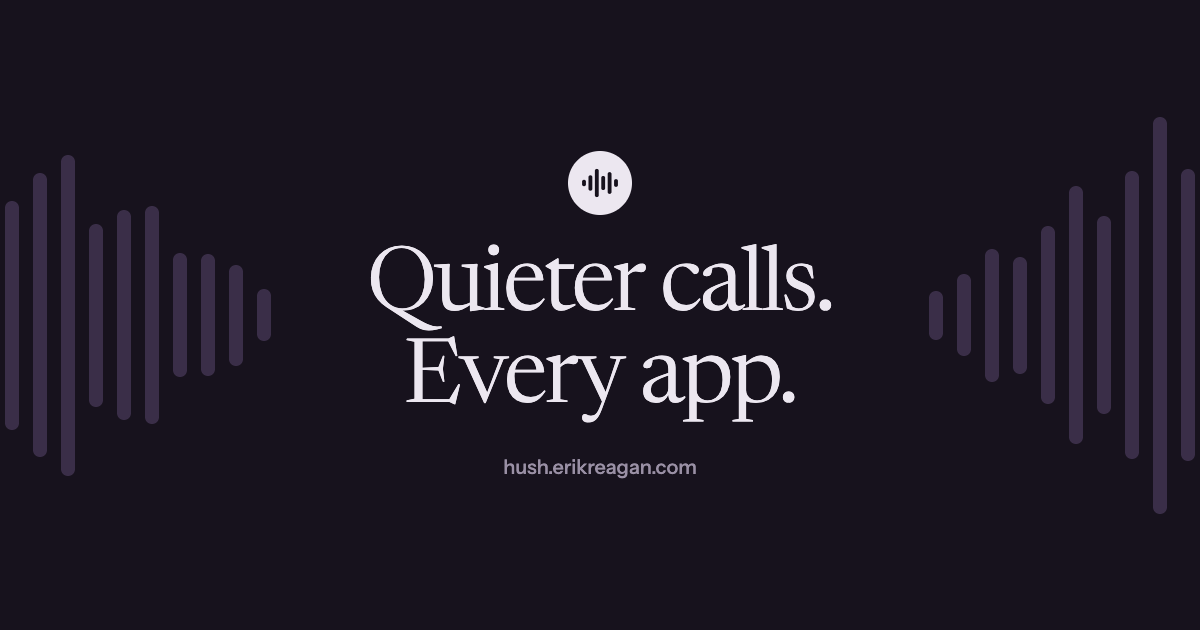
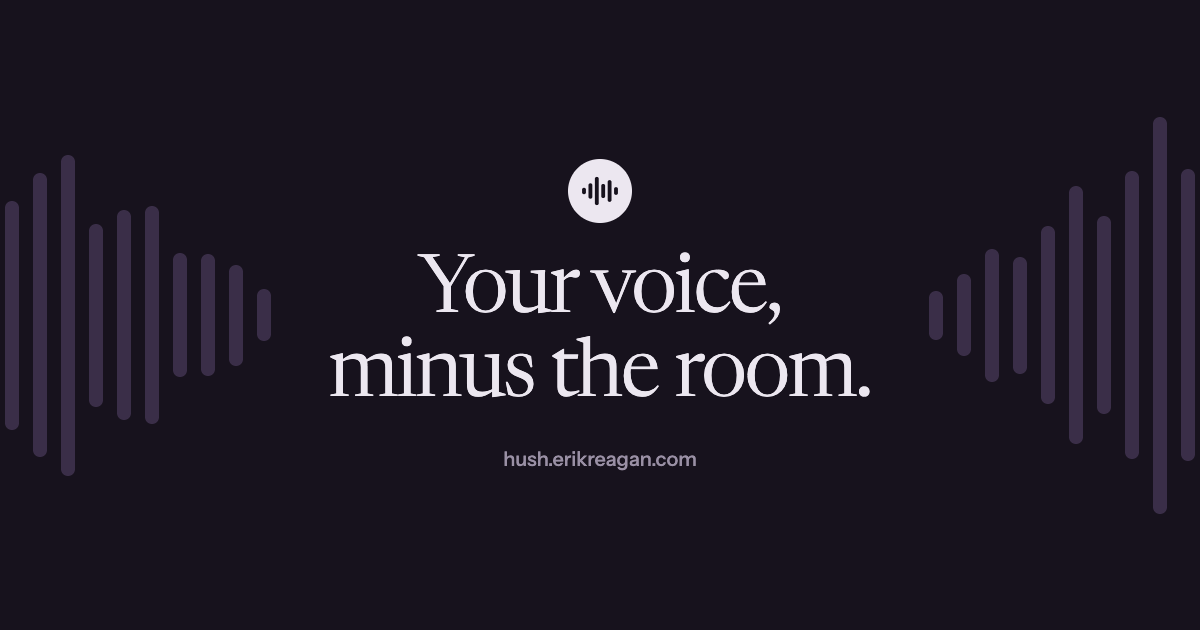
Change the tagline to "Your voice, minus the room."
Claude-Session: https://claude.ai/code/session_01CkEH5x7eo7FDMvQV1rbLEp

Changed region(s): [[0.2775, 0.3921, 0.74, 0.6635], [0.4625, 0.2413, 0.5242, 0.3619], [0.4008, 0.7238, 0.5858, 0.754]]

diff --git a/scripts/og-image.html b/scripts/og-image.html
@@ -14,7 +14,7 @@ body{margin:0}
 #bars{gap:14px}
 #bars div{width:14px;border-radius:7px;background:#3A2E48;flex-shrink:0}
 .words{flex-direction:column;gap:28px;text-align:center}
-h1{margin:0;font-family:Newsreader,Georgia,serif;font-weight:350;font-size:88px;line-height:1.05;letter-spacing:-0.025em}
+h1{margin:0;font-family:Newsreader,Georgia,serif;font-weight:350;font-size:80px;line-height:1.05;letter-spacing:-0.025em}
 .url{font-size:20px;font-weight:500;color:#9A90A5}
 </style>
 </head>
@@ -23,7 +23,7 @@ h1{margin:0;font-family:Newsreader,Georgia,serif;font-weight:350;font-size:88px;
 <div class="layer" id="bars"></div>
 <div class="layer words">
 <svg viewBox="0 0 100 100" width="64" height="64" aria-hidden="true"><circle cx="50" cy="50" r="50" fill="#ECE7F0"/><g transform="translate(50 50)" fill="#17121D"><rect x="-28" y="-5" width="6" height="10" rx="3"/><rect x="-18" y="-12" width="6" height="24" rx="3"/><rect x="-8" y="-22" width="6" height="44" rx="3"/><rect x="2" y="-11" width="6" height="22" rx="3"/><rect x="12" y="-17" width="6" height="34" rx="3"/><rect x="22" y="-6" width="6" height="12" rx="3"/></g></svg>
-<h1>Quieter calls.<br>Every app.</h1>
+<h1>Your voice,<br>minus the room.</h1>
 <span class="url">hush.erikreagan.com</span>
 </div>
 </div>

diff --git a/site/index.html b/site/index.html
@@ -11,7 +11,7 @@
 <meta property="og:image" content="https://hush.erikreagan.com/og.png">
 <meta property="og:image:width" content="1200">
 <meta property="og:image:height" content="630">
-<meta property="og:image:alt" content="Hush. Quieter calls. Every app.">
+<meta property="og:image:alt" content="Hush. Your voice, minus the room.">
 <meta property="og:url" content="https://hush.erikreagan.com/">
 <meta name="twitter:card" content="summary_large_image">
 <meta name="theme-color" content="#F4F1F5" media="(prefers-color-scheme: light)">
@@ -141,7 +141,7 @@ pre{padding:20px;border-radius:16px}
 
 <main>
 <section id="top" class="hero">
-<h1>Quieter calls. Every app.</h1>
+<h1>Your voice, minus the room.</h1>
 <p>Hush sits in your Mac's menu bar and takes fans, typing and clicks out of your microphone before any app hears it.</p>
 <a class="btn" href="https://github.com/erikreagan/hush">Get the source on GitHub</a>
 <span class="note">Free and open source. You build it yourself.</span>

diff --git a/BRAND.md b/BRAND.md
@@ -12,7 +12,7 @@ it.
 - **Audience:** anyone who spends time on calls. Not only people who build software or own audio
   gear. Write and design for someone who has never heard the words "virtual microphone".
 - **Personality:** calm and quiet. The brand behaves like the product: it takes things away.
-- **Tagline:** Quieter calls. Every app.
+- **Tagline:** Your voice, minus the room.
 
 ### Principles
 
@@ -28,7 +28,7 @@ it.
 ## 2. Voice
 
 - **The product's voice.** No "I" or "we". "Hush removes…", "Pick Hush Mic…".
-- **Sentence case everywhere**, including headlines: "Quieter calls. Every app."
+- **Sentence case everywhere**, including headlines: "Your voice, minus the room."
 - **Plain words first.** Say "fans, typing and clicks", not "stationary and transient noise". Technical
   terms (virtual microphone, DeepFilterNet, latency) are welcome further down the page, after the
   plain version.
